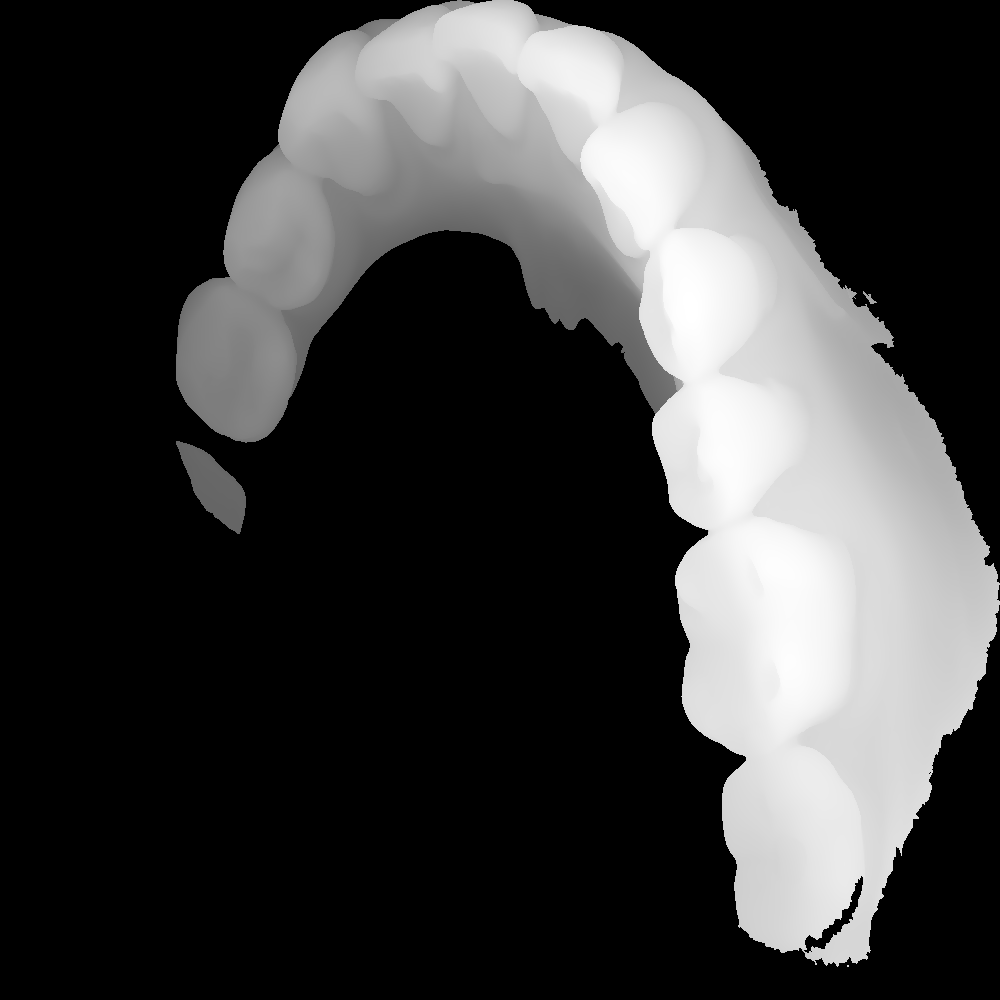
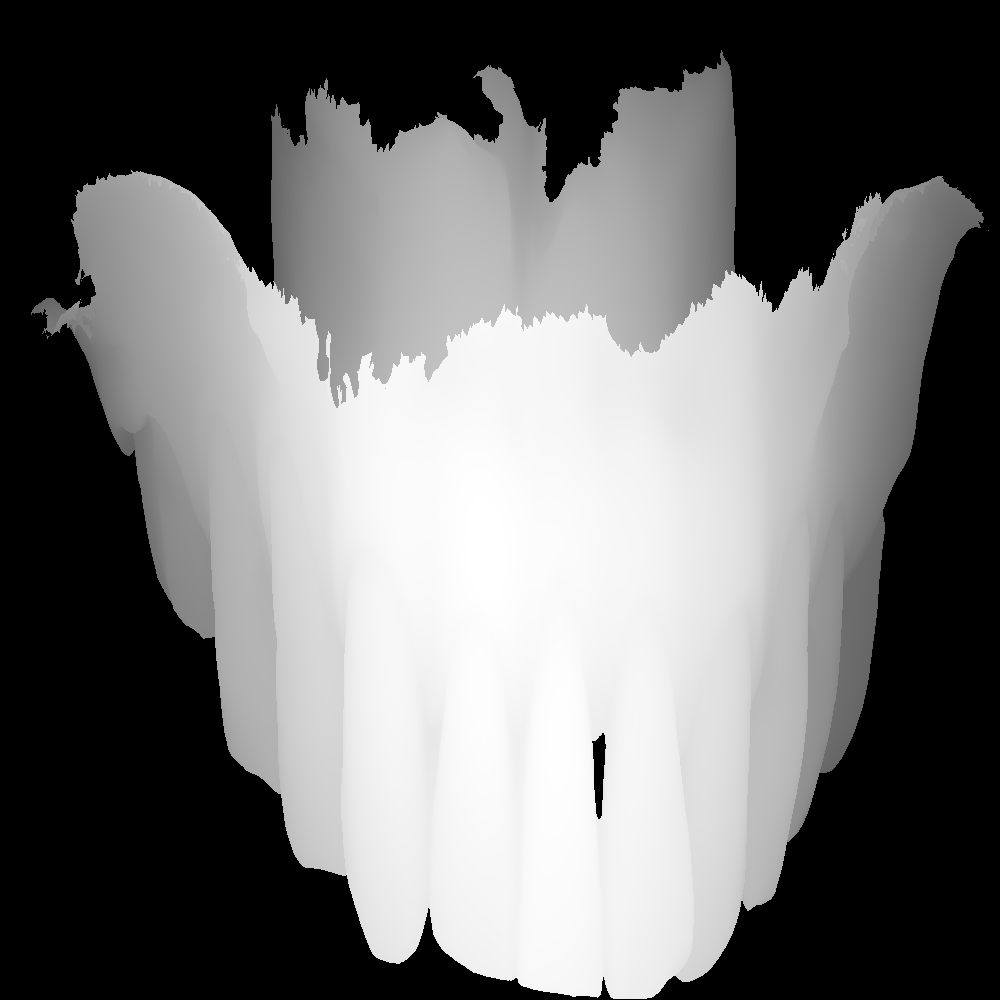
update

diff --git a/src/main program/main.cpp b/src/main program/main.cpp
@@ -4,7 +4,10 @@
 #include"simpleRender.h"
 
 vtkRenderPipeline* pipeline;
-SurfaceMesh mesh;
+SurfaceMesh toothmesh0;
+SurfaceMesh toothmesh1;
+SurfaceMesh crownmesh;
+SurfaceMesh bitemesh;
 
 void LeftPress(vtkObject* caller, long unsigned int eventId, void* clientData, void* callData)
 {
@@ -20,16 +23,16 @@ std::string select_folder()
 {
 	BROWSEINFO  bi;
 	bi.hwndOwner = NULL;
-	bi.pidlRoot = CSIDL_DESKTOP; //�ļ��еĸ�Ŀ¼���˴�Ϊ����
+	bi.pidlRoot = CSIDL_DESKTOP; 
 	bi.pszDisplayName = NULL;
-	bi.lpszTitle = NULL; //��ʾλ�ڶԻ������ϲ�����ʾ��Ϣ
-	bi.ulFlags = BIF_DONTGOBELOWDOMAIN | BIF_RETURNONLYFSDIRS | BIF_NEWDIALOGSTYLE; //���½��ļ��а�ť
+	bi.lpszTitle = NULL; 
+	bi.ulFlags = BIF_DONTGOBELOWDOMAIN | BIF_RETURNONLYFSDIRS | BIF_NEWDIALOGSTYLE; 
 	bi.lpfn = NULL;
 	bi.iImage = 0;
-	LPITEMIDLIST pidl = SHBrowseForFolder(&bi); //����ѡ��Ի���
+	LPITEMIDLIST pidl = SHBrowseForFolder(&bi); 
 	if (pidl == NULL)
 	{
-		std::cout << "û��ѡ��Ŀ¼" << std::endl;
+		std::cout << "" << std::endl;
 		return std::string();
 	}
 	TCHAR folder_tchar[MAX_PATH];
@@ -40,7 +43,7 @@ std::string select_folder()
 	return selected_folder;
 }
 
-void writePNG(SurfaceMesh sm,double3 dir)
+void writePNG(SurfaceMesh sm,double3 dir,std::string path)
 {
 	dir = -dir;
 	dir.normalize();
@@ -129,29 +132,40 @@ void writePNG(SurfaceMesh sm,double3 dir)
 			}
 			else
 			{
-				if (255 - static_cast<int>(depth[x][z] / depth_max * 255) > 100) 
-				{
+
 					unsigned char* pixel = static_cast<unsigned char*>(image->GetScalarPointer(x, z, 0));
 					pixel[0] = 255 - static_cast<int>(depth[x][z] / depth_max * 255);
 					pixel[1] = 255 - static_cast<int>(depth[x][z] / depth_max * 255);
 					pixel[2] = 255 - static_cast<int>(depth[x][z] / depth_max * 255);
-				}
-				else
-				{
-					unsigned char* pixel = static_cast<unsigned char*>(image->GetScalarPointer(x, z, 0));
-					pixel[0] = 0;
-					pixel[1] = 0;
-					pixel[2] = 0;
-				}
+
 			}
 		}
 	}
 	vtkSmartPointer<vtkPNGWriter> writer = vtkSmartPointer<vtkPNGWriter>::New();
-	writer->SetFileName("output.png");
+	writer->SetFileName(path.c_str());
 	writer->SetInputData(image);
 	writer->Write();
 }
 
+void checkfloder(std::string path)
+{
+	// Attempt to create the directory.
+	if (CreateDirectoryA(path.c_str(), NULL)) {
+		printf("Directory created successfully.\n");
+	}
+	else {
+		// If the directory could not be created, print an error message.
+		if (GetLastError() == ERROR_ALREADY_EXISTS) {
+			printf("Directory already exists.\n");
+		}
+		else {
+			printf("Failed to create directory. Error code: %ld\n", GetLastError());
+		}
+	}
+}
+
+std::string output_folder_path = "D:/data/output/";
+int cur_folder = 0;
 
 void LeftRelease(vtkObject* caller, long unsigned int eventId, void* clientData, void* callData)
 {
@@ -160,29 +174,60 @@ void LeftRelease(vtkObject* caller, long unsigned int eventId, void* clientData,
 	coordinate->SetValue(pipeline->RenderWindow->GetSize()[0] / 2, pipeline->RenderWindow->GetSize()[1] / 2, 0);
 	double3 dir(coordinate->GetComputedWorldValue(pipeline->Renderer));
 	dir = dir - double3(pipeline->Renderer->GetActiveCamera()->GetPosition());
-	writePNG(mesh,dir);
+
+	checkfloder(output_folder_path + std::to_string(cur_folder));
+
+	writePNG(toothmesh0,dir, output_folder_path+std::to_string(cur_folder)+"/toothmesh.png");
+	writePNG(toothmesh1,dir, output_folder_path + std::to_string(cur_folder) + "/toothmesh1.png");
+	writePNG(crownmesh,dir, output_folder_path + std::to_string(cur_folder) + "/crownmesh.png");
+	writePNG(bitemesh,dir, output_folder_path + std::to_string(cur_folder) + "/bitemesh.png");
 }
-
-
-
 
 
 int main()
 {
-	pipeline = new vtkRenderPipeline();
 
 	std::string selected_folder_path = select_folder();
 
 	std::cout << "selected_folder_path: " << selected_folder_path << std::endl;
+	int num_folders = 35;
 
-	CGAL::IO::read_polygon_mesh("data/test.stl",mesh);
-	RenderPolydata(CGAL_Surface_Mesh2VTK_PolyData(mesh), pipeline->Renderer,1,1,1,1);
-	
-	pipeline->Renderer->GetActiveCamera()->SetParallelProjection(1);
-	pipeline->Renderer->ResetCamera();
-	pipeline->addObserver(vtkCommand::LeftButtonPressEvent, LeftPress);
-	pipeline->addObserver(vtkCommand::MouseMoveEvent, MouseMove);
-	pipeline->addObserver(vtkCommand::LeftButtonReleaseEvent, LeftRelease);
+	for (int i = 1; i <= num_folders; i++)
+	{
+		cur_folder = i;
+		std::string folder_path;
+		if(i<10)
+			folder_path = selected_folder_path + "/000" + std::to_string(i);
+		else
+			folder_path = selected_folder_path + "/00" + std::to_string(i);
 
-	pipeline->RenderWindowInteractor->Start();
+
+		std::string m1 = folder_path + "/m2.stl";
+		std::string crown = folder_path + "/c.stl";
+		std::string bite = folder_path + "/b.stl";
+		std::string m0 = folder_path + "/m1.stl";
+
+		pipeline = new vtkRenderPipeline();
+		toothmesh0.clear();
+		toothmesh1.clear();
+		crownmesh.clear();
+		bitemesh.clear();
+
+		CGAL::IO::read_STL(m0, toothmesh0);
+		std::cout<<toothmesh0.number_of_vertices()<<std::endl;
+		CGAL::IO::read_polygon_mesh(m1, toothmesh1);
+		CGAL::IO::read_polygon_mesh(crown, crownmesh);
+		CGAL::IO::read_polygon_mesh(bite, bitemesh);
+		RenderPolydata(CGAL_Surface_Mesh2VTK_PolyData(toothmesh0), pipeline->Renderer, 1, 1, 1, 1);
+		RenderPolydata(CGAL_Surface_Mesh2VTK_PolyData(toothmesh1), pipeline->Renderer, 1, 1, 1, 1);
+
+		pipeline->Renderer->GetActiveCamera()->SetParallelProjection(1);
+		pipeline->Renderer->ResetCamera();
+		pipeline->addObserver(vtkCommand::LeftButtonPressEvent, LeftPress);
+		pipeline->addObserver(vtkCommand::MouseMoveEvent, MouseMove);
+		pipeline->addObserver(vtkCommand::LeftButtonReleaseEvent, LeftRelease);
+
+		pipeline->RenderWindowInteractor->Start();
+		delete pipeline;
+	}
 }
